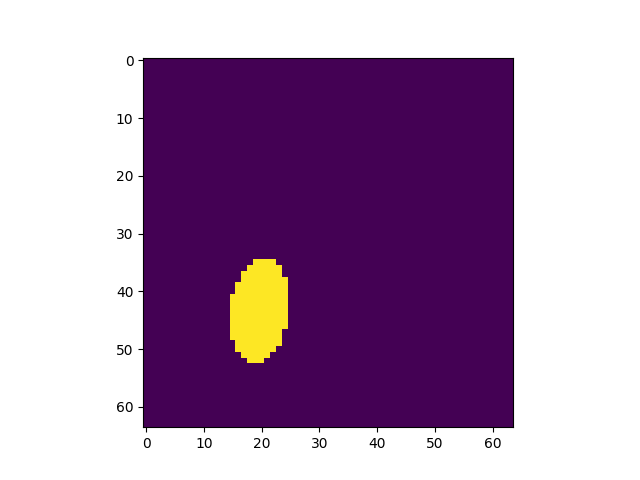
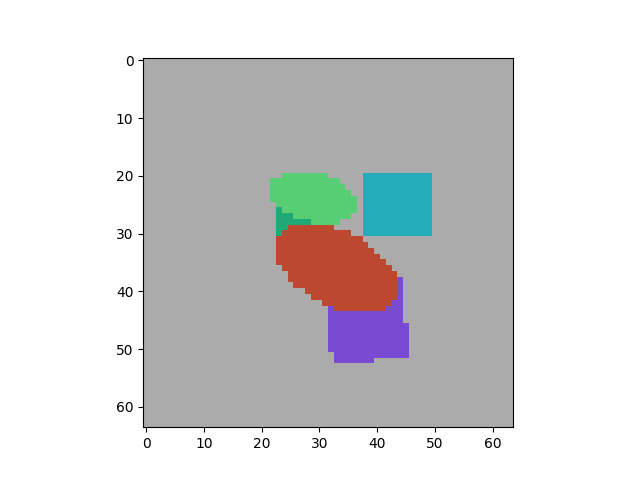
added multi-dsprites

diff --git a/multi_dsprites.py b/multi_dsprites.py
@@ -1,0 +1,60 @@
+
+import os
+import random
+import json
+import numpy as np
+from PIL import Image
+import torch
+import tensorflow_datasets as tfds
+from torchvision import transforms
+from torch.utils.data import Dataset, DataLoader
+from torch.utils.data.dataloader import default_collate
+# from multi_object_datasets import multi_dsprites
+# batch_size=64
+# tfrecord_path = "/Users/oleksostapenko/Projects/data/multi_dsprites_colored_on_grayscale.tfrecords"
+# dataset = multi_dsprites.dataset(tfrecord_path, 'colored_on_grayscale')
+# batched_dataset = dataset.batch(batch_size)  # optional batching
+# iterator = batched_dataset.make_one_shot_iterator()
+# # data = iterator.get_next()
+      
+# # ds_numpy = tfds.as_numpy(dataset)
+# color, image, mask, scale, shape, visibility, x, y = [],[],[],[],[],[],[],[]
+# for i,batch in enumerate(iterator):
+#     print(i)
+#     color.append(batch['color'].numpy())
+#     image.append(batch['image'].numpy())
+#     mask.append(batch['mask'].numpy())
+#     scale.append(batch['scale'].numpy())
+#     shape.append(batch['shape'].numpy())
+#     visibility.append(batch['visibility'].numpy())
+#     x.append(batch['x'].numpy())
+#     y.append(batch['y'].numpy())
+#     if i ==5000:
+#         break
+# np.save('Data/multi_dsprites/color.npy',np.stack(color))
+# np.save('Data/multi_dsprites/image.npy',np.stack(image))
+# np.save('Data/multi_dsprites/mask.npy',np.stack(mask))
+# np.save('Data/multi_dsprites/scale.npy',np.stack(scale))
+# np.save('Data/multi_dsprites/shape.npy',np.stack(shape))
+# np.save('Data/multi_dsprites/visibility.npy',np.stack(visibility))
+# np.save('Data/multi_dsprites/x.npy',np.stack(x))
+# np.save('Data/multi_dsprites/y.npy',np.stack(y))
+# print('')
+
+class Dataset_multidStripes(Dataset):
+    def __init__(self) -> None:
+        super().__init__()
+        self.data = np.load('Data/multi_dsprites/image.npy')
+        _,_,h,w,c = self.data.shape
+        self.data=self.data.reshape((-1,h,w,c))
+        self.len = len(self.data)
+        self.transform = transforms.ToTensor()
+
+    def __len__(self):
+        return self.len
+    def __getitem__(self, index):
+        return self.transform(self.data[index])
+
+if __name__=="__main__":
+    ds = Dataset_tfrecord()
+

diff --git a/train.py b/train.py
@@ -7,7 +7,10 @@ import time
 import datetime
 import torch.optim as optim
 import torch
-from data_dsprites import load_dsprites
+from multi_dsprites import Dataset_multidStripes
+# from data_dsprites import load_dsprites
+# from multi_object_datasets import multi_dsprites
+from tfrecord.torch.dataset import TFRecordDataset
 
 device = torch.device("cuda:0" if torch.cuda.is_available() else "cpu")
 
@@ -30,21 +33,20 @@ parser.add_argument('--num_epochs', default=1000, type=int, help='number of work
 
 opt = parser.parse_args()
 resolution = (64, 64)
- 
 device = torch.device("cuda:0" if torch.cuda.is_available() else "cpu")
 
 # train_set = CLEVR('train')
-model = SlotAttentionAutoEncoder(resolution, opt.num_slots, opt.num_iterations, opt.hid_dim, n_channels=1).to(device)
+train_set=Dataset_multidStripes()
+model = SlotAttentionAutoEncoder(resolution, opt.num_slots, opt.num_iterations, opt.hid_dim, n_channels=3).to(device)
 # model.load_state_dict(torch.load('./tmp/model6.ckpt')['model_state_dict'])
 
 criterion = nn.MSELoss()
-
 params = [{'params': model.parameters()}]
 
-# train_dataloader = torch.utils.data.DataLoader(train_set, batch_size=opt.batch_size,
-#                         shuffle=True, num_workers=opt.num_workers)
+train_dataloader = torch.utils.data.DataLoader(train_set, batch_size=opt.batch_size,
+                        shuffle=True, num_workers=opt.num_workers)
 
-train_dataloader, _ = load_dsprites(opt.data_dir)     
+# train_dataloader, _ = load_dsprites(opt.data_dir)  
 optimizer = optim.Adam(params, lr=opt.learning_rate)
 
 start = time.time()
@@ -55,8 +57,7 @@ for epoch in range(opt.num_epochs):
     total_loss = 0
 
     for sample in tqdm(train_dataloader):
-        i += 1
-        sample=sample[0]
+        i += 1        
         if i < opt.warmup_steps:
             learning_rate = opt.learning_rate * (i / opt.warmup_steps)
         else:
